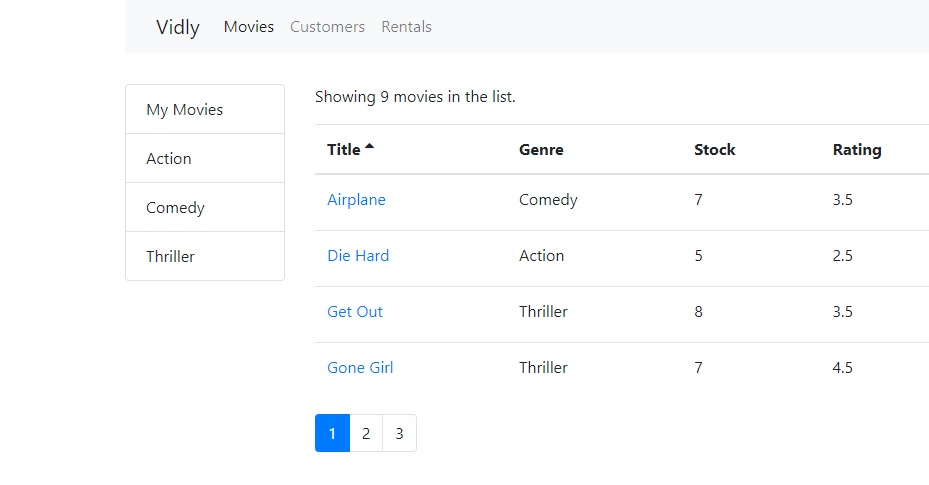
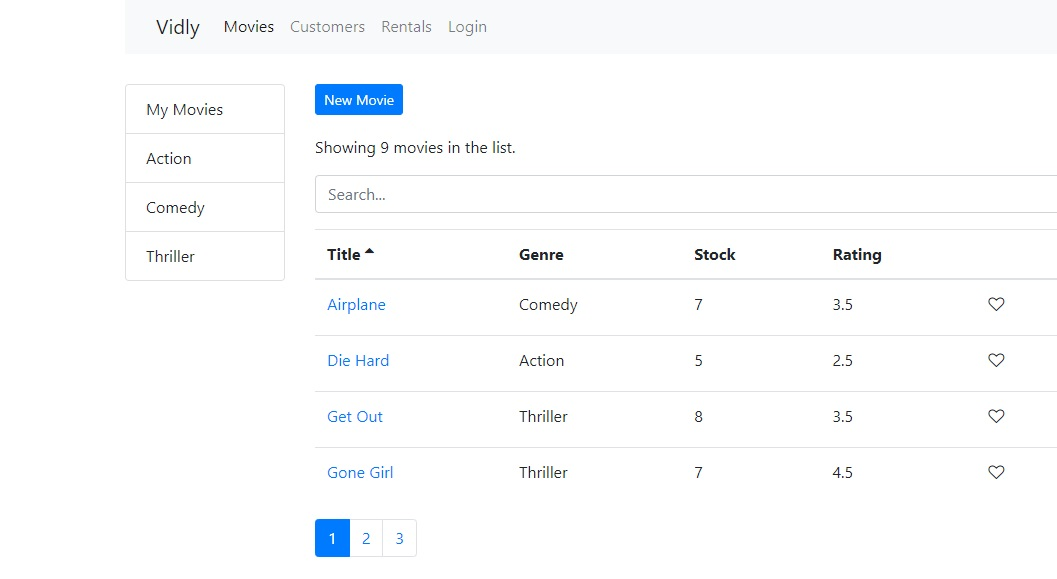
vidly update 3

diff --git a/reactprojects.html b/reactprojects.html
@@ -18,9 +18,10 @@
               <h1>Vidly App</h1>
               <h2>React Project</h2>
               <p>
-                In this app we get a list of movies, and we can like, delete,
-                paginate, filter, and sort the movies in the list. And all the
-                components are reusable.
+                In this app we login and register, and get a list of movies, and
+                we can like, delete, paginate, filter, sort, and search for the
+                movies in the list. We can also add new movies the list. And all
+                the components are reusable.
               </p>
               <a
                 target="_blank"
